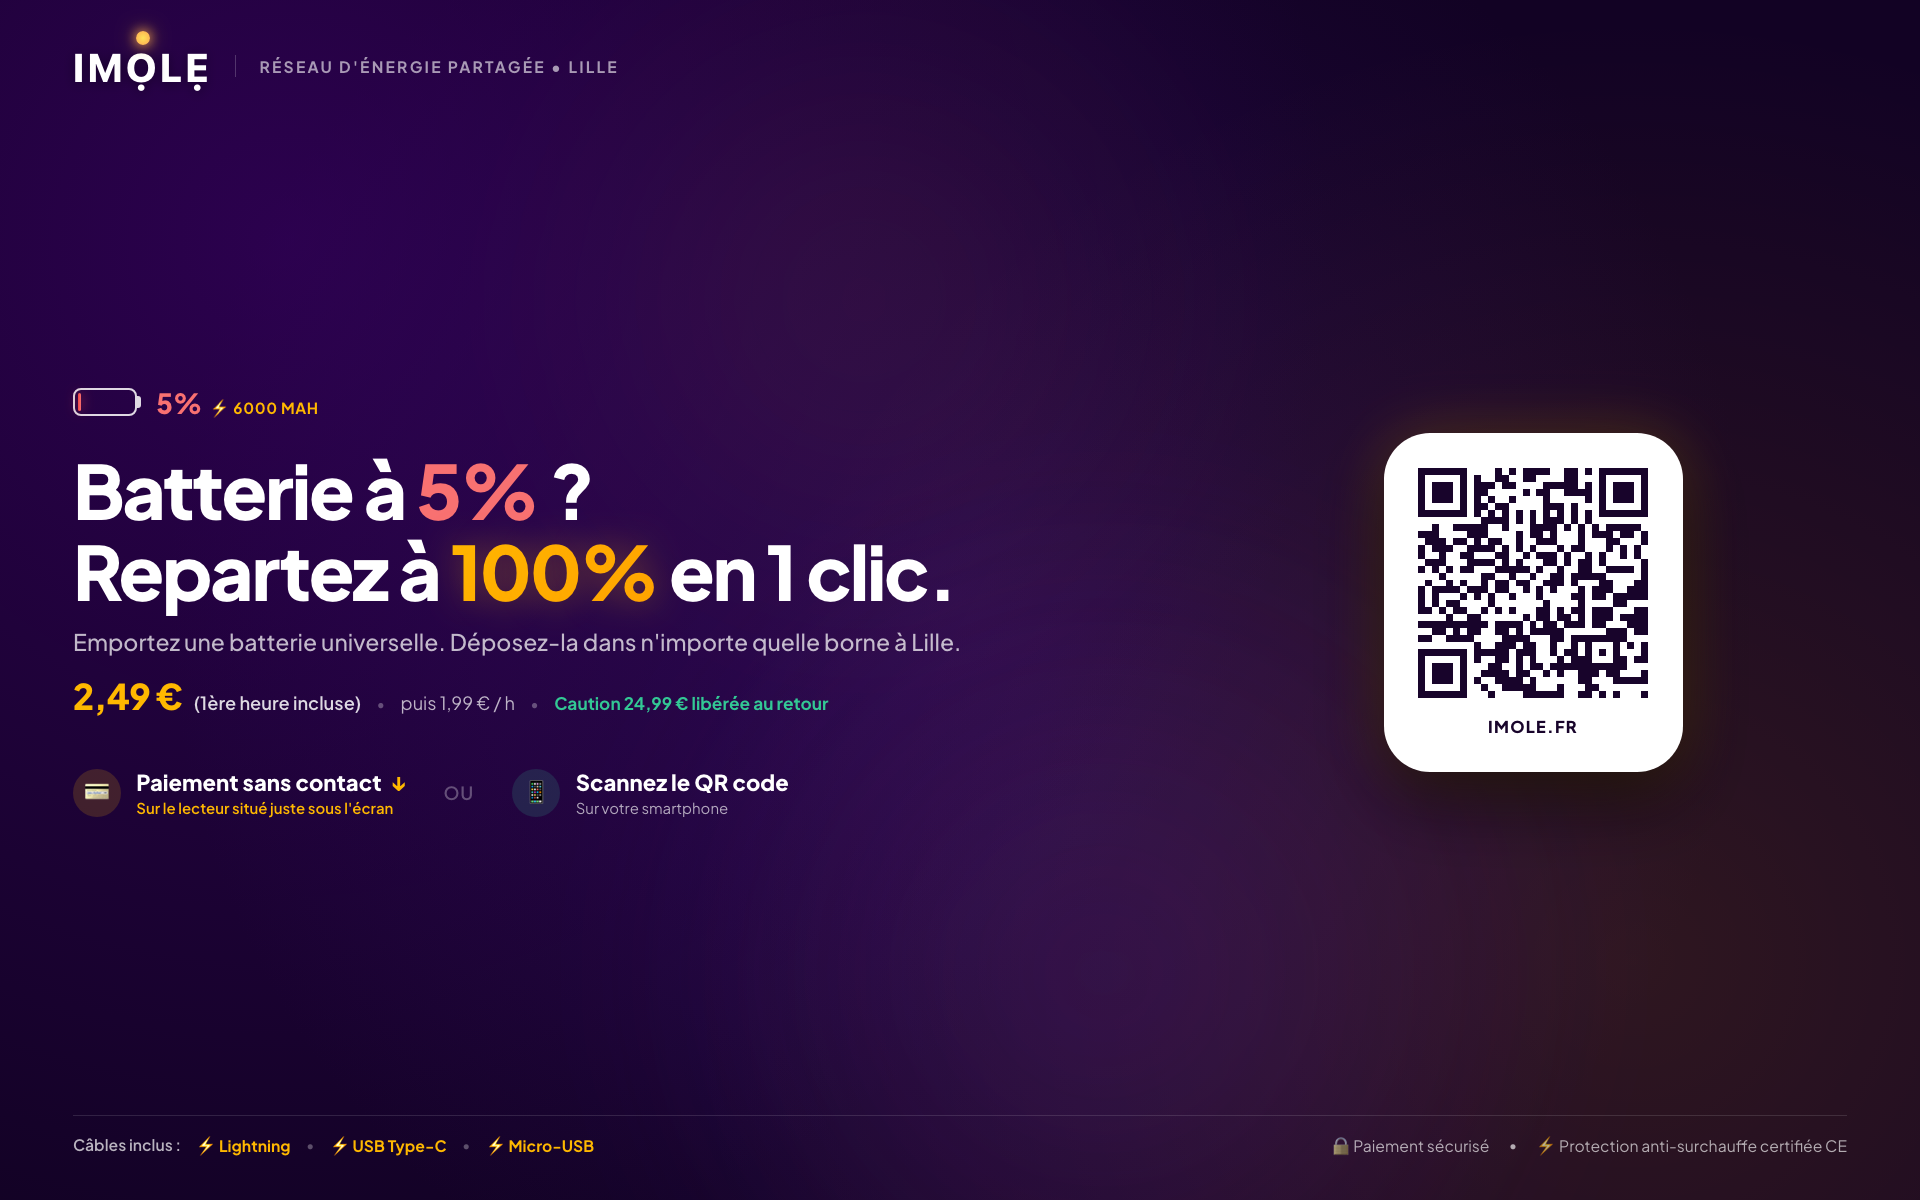
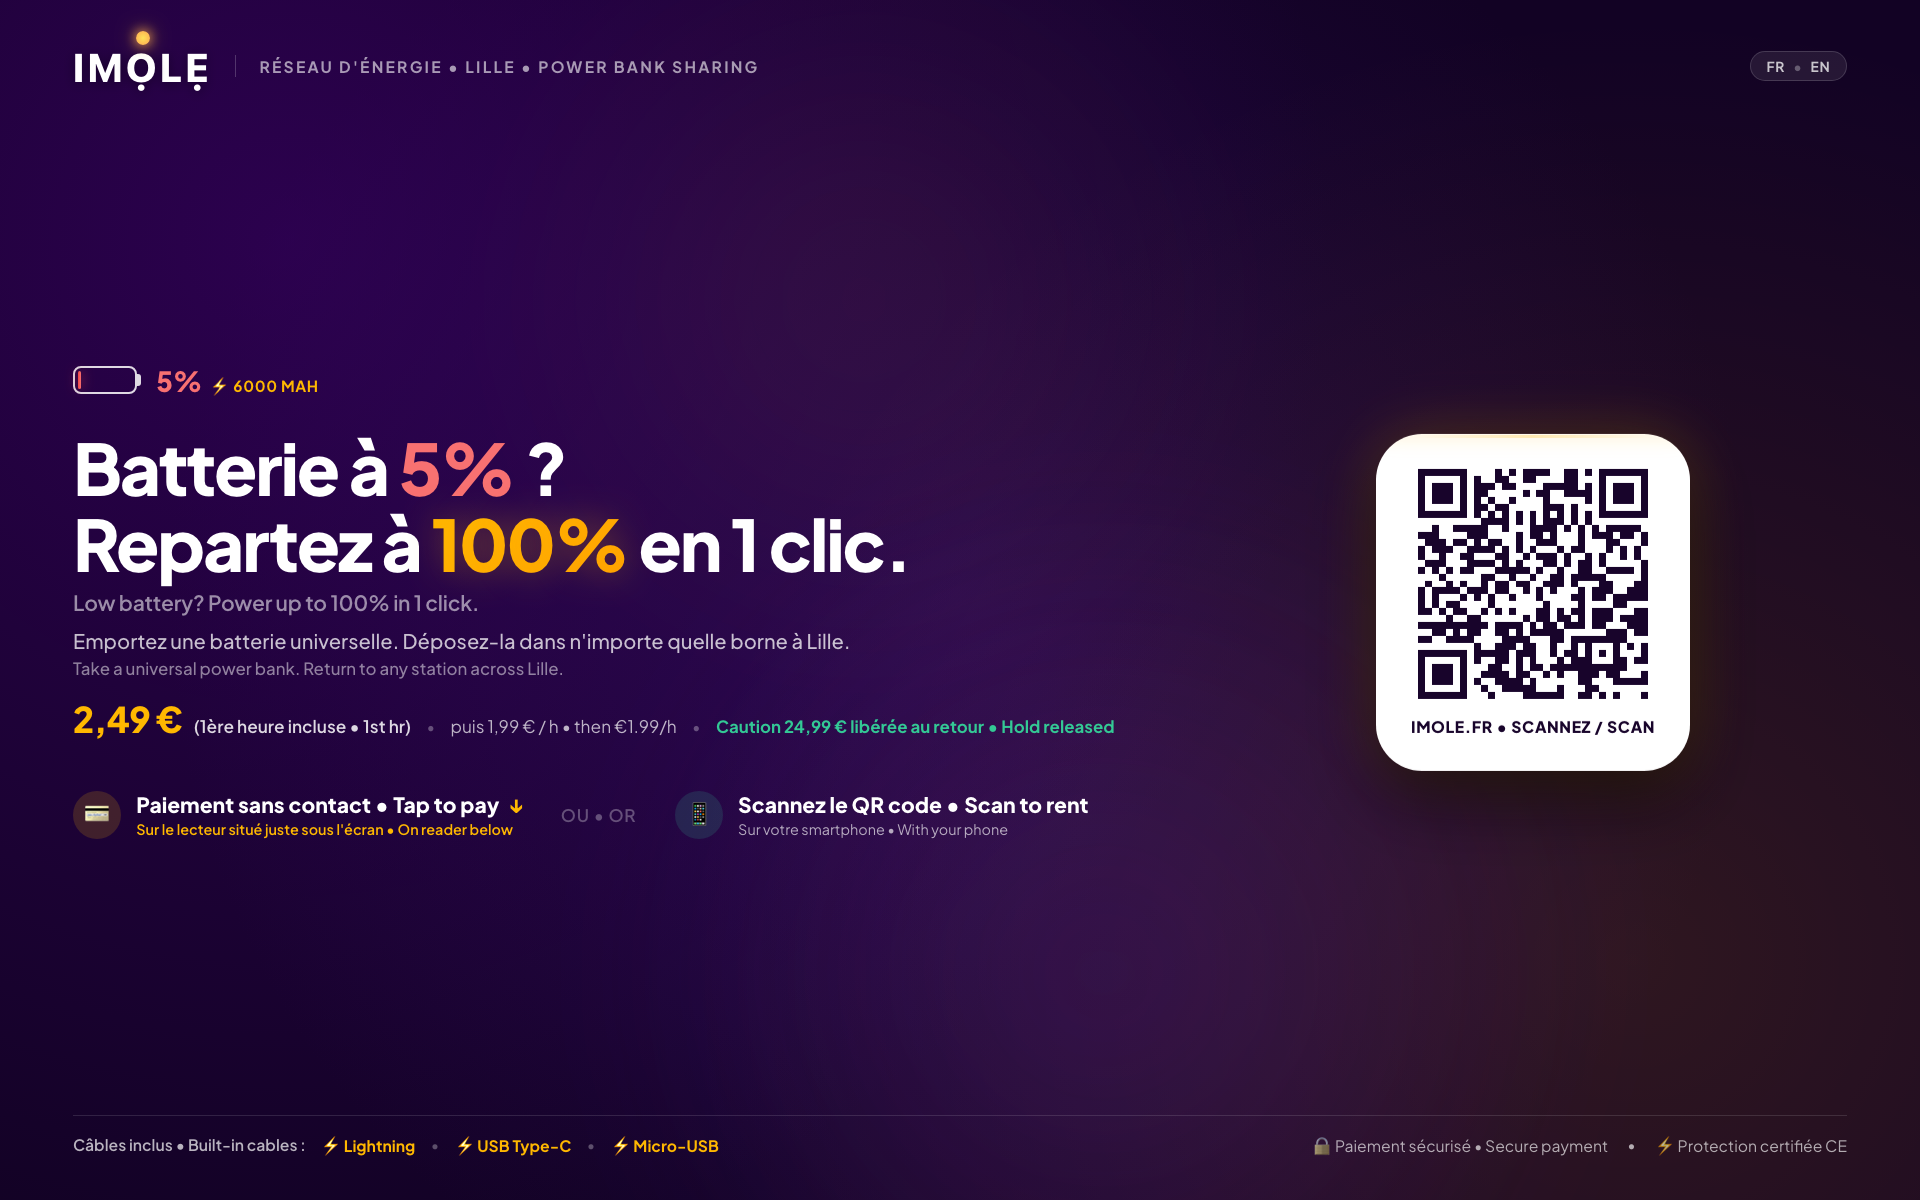
feat(kiosk): implement bilingual French-English attract screen with high-res 16:10 assets

diff --git a/src/app/kiosk/page.tsx b/src/app/kiosk/page.tsx
@@ -193,11 +193,30 @@ function KioskDisplay() {
             color: 'rgba(255, 255, 255, 0.6)',
             fontWeight: 700,
           }}>
-            {isFr ? 'Réseau d\'énergie partagée • Lille' : 'Power Bank Sharing Network • Lille'}
+            Réseau d&apos;énergie • Lille • Power Bank Sharing
           </span>
         </div>
 
         <div style={{ display: 'flex', alignItems: 'center', gap: '1vw' }}>
+          {!showSimulator && (
+            <div style={{
+              display: 'flex',
+              alignItems: 'center',
+              gap: '0.4vw',
+              background: 'rgba(255, 255, 255, 0.08)',
+              border: '1px solid rgba(255, 255, 255, 0.15)',
+              borderRadius: '9999px',
+              padding: '0.3vw 0.8vw',
+              fontSize: '0.72vw',
+              fontWeight: 700,
+              color: 'rgba(255, 255, 255, 0.75)',
+              letterSpacing: '0.06em',
+            }}>
+              <span>FR</span>
+              <span style={{ color: 'rgba(255, 255, 255, 0.3)' }}>•</span>
+              <span>EN</span>
+            </div>
+          )}
           {/* Hardware Demo State Simulator (Visible only when ?test=1 is in URL) */}
           {showSimulator && (
             <div style={{
@@ -363,68 +382,63 @@ function KioskDisplay() {
             {/* Headline */}
             <div>
               <h1 style={{
-                fontSize: '3.9vw',
+                fontSize: '3.7vw',
                 fontWeight: 800,
                 lineHeight: 1.08,
                 letterSpacing: '-0.03em',
                 margin: 0,
               }}>
-                {isFr ? (
-                  <>
-                    <span>Batterie à <span style={{ color: '#F87171' }}>5%</span> ?</span><br />
-                    <span style={{ whiteSpace: 'nowrap' }}>
-                      Repartez à <span style={{
-                        background: 'linear-gradient(135deg, #FFB800 0%, #FFA000 100%)',
-                        WebkitBackgroundClip: 'text',
-                        WebkitTextFillColor: 'transparent',
-                        textShadow: '0 0 35px rgba(255, 184, 0, 0.35)',
-                      }}>100%</span> en 1 clic.
-                    </span>
-                  </>
-                ) : (
-                  <>
-                    <span>Battery at <span style={{ color: '#F87171' }}>5%</span> ?</span><br />
-                    <span style={{ whiteSpace: 'nowrap' }}>
-                      Get back to <span style={{
-                        background: 'linear-gradient(135deg, #FFB800 0%, #FFA000 100%)',
-                        WebkitBackgroundClip: 'text',
-                        WebkitTextFillColor: 'transparent',
-                        textShadow: '0 0 35px rgba(255, 184, 0, 0.35)',
-                      }}>100%</span> in 1 click.
-                    </span>
-                  </>
-                )}
+                <span>Batterie à <span style={{ color: '#F87171' }}>5%</span> ?</span><br />
+                <span style={{ whiteSpace: 'nowrap' }}>
+                  Repartez à <span style={{
+                    background: 'linear-gradient(135deg, #FFB800 0%, #FFA000 100%)',
+                    WebkitBackgroundClip: 'text',
+                    WebkitTextFillColor: 'transparent',
+                    textShadow: '0 0 35px rgba(255, 184, 0, 0.35)',
+                  }}>100%</span> en 1 clic.
+                </span>
               </h1>
 
+              <div style={{
+                fontSize: '1.1vw',
+                color: 'rgba(255, 255, 255, 0.55)',
+                fontWeight: 600,
+                marginTop: '0.35vw',
+                letterSpacing: '-0.01em',
+              }}>
+                Low battery? Power up to 100% in 1 click.
+              </div>
+
               <p style={{
-                fontSize: '1.2vw',
-                color: 'rgba(255, 255, 255, 0.72)',
-                marginTop: '0.7vw',
+                fontSize: '1.05vw',
+                color: 'rgba(255, 255, 255, 0.75)',
+                marginTop: '0.6vw',
                 marginBottom: 0,
                 fontWeight: 500,
                 lineHeight: 1.35,
                 maxWidth: '92%',
               }}>
-                {isFr 
-                  ? 'Emportez une batterie universelle. Déposez-la dans n\'importe quelle borne à Lille.'
-                  : 'Take a universal power bank with you. Return it to any station in Lille.'}
+                Emportez une batterie universelle. Déposez-la dans n&apos;importe quelle borne à Lille.
+                <span style={{ display: 'block', fontSize: '0.88vw', color: 'rgba(255, 255, 255, 0.5)', marginTop: '0.15vw' }}>
+                  Take a universal power bank. Return to any station across Lille.
+                </span>
               </p>
 
               {/* Clean Pricing Line */}
-              <div style={{ display: 'flex', alignItems: 'baseline', gap: '0.6vw', marginTop: '0.85vw' }}>
+              <div style={{ display: 'flex', alignItems: 'baseline', gap: '0.6vw', marginTop: '0.8vw', flexWrap: 'wrap' }}>
                 <span style={{ fontSize: '1.85vw', fontWeight: 800, color: '#FFB800', letterSpacing: '-0.02em' }}>
                   2,49 €
                 </span>
-                <span style={{ fontSize: '0.95vw', color: 'rgba(255, 255, 255, 0.85)', fontWeight: 600 }}>
-                  {isFr ? '(1ère heure incluse)' : '(1st hour included)'}
+                <span style={{ fontSize: '0.9vw', color: 'rgba(255, 255, 255, 0.85)', fontWeight: 600 }}>
+                  (1ère heure incluse • 1st hr)
                 </span>
                 <span style={{ color: 'rgba(255, 255, 255, 0.3)', margin: '0 0.2vw' }}>•</span>
-                <span style={{ fontSize: '0.95vw', color: 'rgba(255, 255, 255, 0.7)' }}>
-                  {isFr ? 'puis 1,99 € / h' : 'then €1.99 / hr'}
+                <span style={{ fontSize: '0.9vw', color: 'rgba(255, 255, 255, 0.7)' }}>
+                  puis 1,99 € / h • then €1.99/h
                 </span>
                 <span style={{ color: 'rgba(255, 255, 255, 0.3)', margin: '0 0.2vw' }}>•</span>
-                <span style={{ fontSize: '0.9vw', color: 'rgba(52, 211, 153, 0.95)', fontWeight: 700 }}>
-                  {isFr ? 'Caution 24,99 € libérée au retour' : '€24.99 hold released on return'}
+                <span style={{ fontSize: '0.88vw', color: 'rgba(52, 211, 153, 0.95)', fontWeight: 700 }}>
+                  Caution 24,99 € libérée au retour • Hold released
                 </span>
               </div>
             </div>
@@ -462,7 +476,7 @@ function KioskDisplay() {
                 </div>
                 <div>
                   <div style={{
-                    fontSize: '1.15vw',
+                    fontSize: '1.1vw',
                     fontWeight: 800,
                     color: '#FFFFFF',
                     whiteSpace: 'nowrap',
@@ -470,17 +484,17 @@ function KioskDisplay() {
                     alignItems: 'center',
                     gap: '0.4vw',
                   }}>
-                    <span>{isFr ? 'Paiement sans contact' : 'Contactless payment'}</span>
+                    <span>Paiement sans contact • Tap to pay</span>
                     <span style={{ color: '#FFB800' }}>↓</span>
                   </div>
                   <div style={{
-                    fontSize: '0.78vw',
+                    fontSize: '0.75vw',
                     color: '#FFB800',
                     fontWeight: 600,
                     whiteSpace: 'nowrap',
                     marginTop: '0.1vw',
                   }}>
-                    {isFr ? 'Sur le lecteur situé juste sous l\'écran' : 'On reader located right below screen'}
+                    Sur le lecteur situé juste sous l&apos;écran • On reader below
                   </div>
                 </div>
               </div>
@@ -488,13 +502,13 @@ function KioskDisplay() {
               {/* Elegant separator */}
               <span style={{
                 color: 'rgba(255, 255, 255, 0.3)',
-                fontSize: '0.95vw',
+                fontSize: '0.9vw',
                 fontWeight: 600,
                 textTransform: 'uppercase',
                 letterSpacing: '0.04em',
                 flexShrink: 0,
               }}>
-                {isFr ? 'ou' : 'or'}
+                ou • or
               </span>
 
               {/* Option 2: Mobile QR Scan */}
@@ -514,11 +528,11 @@ function KioskDisplay() {
                   📱
                 </div>
                 <div>
-                  <div style={{ fontSize: '1.15vw', fontWeight: 800, color: '#FFFFFF', whiteSpace: 'nowrap' }}>
-                    {isFr ? 'Scannez le QR code' : 'Scan the QR code'}
+                  <div style={{ fontSize: '1.1vw', fontWeight: 800, color: '#FFFFFF', whiteSpace: 'nowrap' }}>
+                    Scannez le QR code • Scan to rent
                   </div>
-                  <div style={{ fontSize: '0.78vw', color: 'rgba(255, 255, 255, 0.65)', whiteSpace: 'nowrap', marginTop: '0.1vw' }}>
-                    {isFr ? 'Sur votre smartphone' : 'On your smartphone'}
+                  <div style={{ fontSize: '0.75vw', color: 'rgba(255, 255, 255, 0.65)', whiteSpace: 'nowrap', marginTop: '0.1vw' }}>
+                    Sur votre smartphone • With your phone
                   </div>
                 </div>
               </div>
@@ -568,13 +582,13 @@ function KioskDisplay() {
               </div>
 
               <span style={{
-                fontSize: '0.85vw',
+                fontSize: '0.82vw',
                 fontWeight: 800,
                 color: '#18042B',
-                letterSpacing: '0.08em',
+                letterSpacing: '0.04em',
                 textTransform: 'uppercase',
               }}>
-                imole.fr
+                imole.fr • scannez / scan
               </span>
             </div>
           </div>
@@ -1144,7 +1158,7 @@ function KioskDisplay() {
         {/* Built-in Cables Indicator */}
         <div style={{ display: 'flex', alignItems: 'center', gap: '0.8vw' }}>
           <span style={{ color: 'rgba(255, 255, 255, 0.7)', fontWeight: 600 }}>
-            {isFr ? 'Câbles inclus :' : 'Cables included:'}
+            Câbles inclus • Built-in cables :
           </span>
           <span style={{ color: '#FFB800', fontWeight: 700 }}>⚡ Lightning</span>
           <span style={{ color: 'rgba(255, 255, 255, 0.3)' }}>•</span>
@@ -1155,9 +1169,9 @@ function KioskDisplay() {
 
         {/* Security Assurance */}
         <div style={{ display: 'flex', alignItems: 'center', gap: '1vw', color: 'rgba(255, 255, 255, 0.65)' }}>
-          <span>🔒 {isFr ? 'Paiement sécurisé' : 'Secure Payments'}</span>
+          <span>🔒 Paiement sécurisé • Secure payment</span>
           <span>•</span>
-          <span>⚡ {isFr ? 'Protection anti-surchauffe certifiée CE' : 'CE-Certified Overheat Protection'}</span>
+          <span>⚡ Protection certifiée CE</span>
         </div>
       </footer>
     </div>

diff --git a/public/kiosk-static.html b/public/kiosk-static.html
@@ -25,3 +25,4 @@
   <img src="/kiosk-1.png" alt="IMOLE Kiosk Display" class="kiosk-display" />
 </body>
 </html>
+
